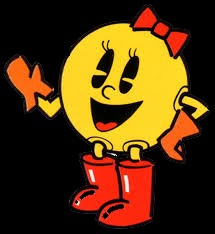
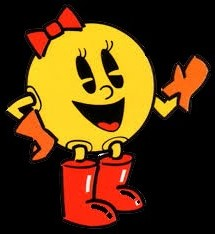
pac is moving

diff --git a/front.html b/front.html
@@ -15,14 +15,17 @@
                 <div class ="column">
                         <img id="pic3"  src="imagesfront/ghost3.png" style="width:10%" > 
                 </div>
-                <div class ="column">
+                <!-- <div class ="column">
                     <img id="pic2"  src="imagesfront/ghosts.jpg" style="width:30%" > 
-            </div>
+            </div> -->
             <div class ="column">
-                <img id="pic4"  src="imagesfront/face1.jpg" style="width:10%" > 
+                <img id="pic4"  src="imagesfront/face1.jpg" style="width:15%" > 
         </div>
          </div>
          <div class="container"> 
+                <div class ="pacman">
+                <img id="pic5"  src="imagesfront/pacman.png" style="width:70%" > 
+                </div>
             <div class= "red"></div>
             <div class= "red"></div>
             <div class= "red"></div>
@@ -33,9 +36,10 @@
             <div class= "red"></div>
             <div class= "red"></div>
             <div class= "red"></div>
-             
+            
          </div>
-         
+         <button type="button" id="start" onclick="myFunction()">START GAME</button>
+
         
         
         <style>
@@ -64,19 +68,19 @@
                  padding-top:-2%;
                  
              }
-             #pic2{
+             /* #pic2{
                 display: inline;
                  margin-left:35%;
                 padding-top:2%;
                 
-             }
+             } */
              #pic4{
                  float:left;
-                 padding-left:10%;
-                 margin-top:-20%;
+                 padding-left:-1%;
+                 margin-top:5%;
              }
              
-             .red:nth-child(1),
+             /* .red:nth-child(1),
              .red:nth-child(2),
              .red:nth-child(3),
              .red:nth-child(4),
@@ -87,14 +91,14 @@
              .red:nth-child(9),
              .red:nth-child(10)
              {
-                 width:55px;
-                 height:55px;
+                 width:20px;
+                 height:20px;
                  display:inline-flex;
                  border-radius: 50%;
                  animation-name: popup;
                  animation-duration:1s;
                  animation-timing-function: ease-in;
-                 animation-iteration-count: infinite;
+                 animation-iteration-count: 1;
                   
              }
 
@@ -153,13 +157,140 @@
                  100%{
                      transform:translateY(0px);
                  }
+             } */
+             .red:nth-child(1),
+             .red:nth-child(2),
+             .red:nth-child(3),
+             .red:nth-child(4),
+             .red:nth-child(5),
+             .red:nth-child(6),
+             .red:nth-child(7),
+             .red:nth-child(8),
+             .red:nth-child(9),
+             .red:nth-child(10)
+             {
+                 width:18px;
+                 height:18px;
+                 margin-right: 10px;
+                 display:inline-flex;
+                 border-radius: 50%;
+                 animation-name: popup;
+                 animation-duration:.5s;
+                 /* animation-iteration-count: infinite;  */
+                 animation-fill-mode: forwards;
+                
              }
-             
-           
+             .pacman{
+                display:inline-flex;  
+                animation-name:move;
+                animation-duration: 11s;
+                animation-fill-mode:forwards;
+             }
+             .red:nth-child(1){
+                 background: rgb(230, 160, 8);
+             }
+             .red:nth-child(2){
+                 background:rgb(230, 160, 8);
+                 animation-delay: 1s;
+             }
+             .red:nth-child(3){
+                 background:rgb(230, 160, 8);
+                 animation-delay: 2s;
+             }
+             .red:nth-child(4){
+                 background:rgb(230, 160, 8);
+                 animation-delay: 3s;
+             }
+             .red:nth-child(5){
+                 background:rgb(230, 160, 8);
+                 animation-delay: 4s;
+             }
+             .red:nth-child(6){
+                 background: rgb(230, 160, 8);
+                 animation-delay: 5s;
+             }
+             .red:nth-child(7){
+                 background:rgb(230, 160, 8);
+                 animation-delay: 6s;
+             }
+             .red:nth-child(8){
+                 background:rgb(230, 160, 8);
+                 animation-delay: 7s;
+             }
+             .red:nth-child(9){
+                 background:rgb(230, 160, 8);
+                 animation-delay: 8s;
+             }
+             .red:nth-child(10){
+                 background:rgb(230, 160, 8);
+                 animation-delay: 9s;
+             }
+             .container{
+                 text-align:center;
+                 padding-left:-100%;
+                 margin-top:2%;
+                 
+             }
+
+
+           @keyframes popup{
+               0%{
+                   display:red;
+               }
+               100%{
+                   background:black;
+               }
+           }
+           @keyframes move{
+               0%{
+                   transform:translateX(0px);
+
+               }
+               10%{
+                transform:translateX(40px);
+               }
+               20%{
+                transform:translateX(80px);
+               }
+               30%{
+                transform:translateX(112px);
+               }
+               40%{
+                transform:translateX(140px);
+               }
+               50%{
+                transform:translateX(175px);
+               }
+               60%{
+                transform:translateX(205px);
+               }
+               70%{
+                transform:translateX(237px);
+               }
+               80%{
+                transform:translateX(270px);
+               }
+               90%{
+                transform:translateX(310px);
+               }
+               100%{
+                transform:translateX(350px);  
+               }
+             }
+
+           .button{
+                text-align:center;
+            }
               </style> 
 
      <script>
     
+
+        function myFunction() {
+        var x = document.getElementById("start");
+
+        }
+
     
     </script> 
     </body>
